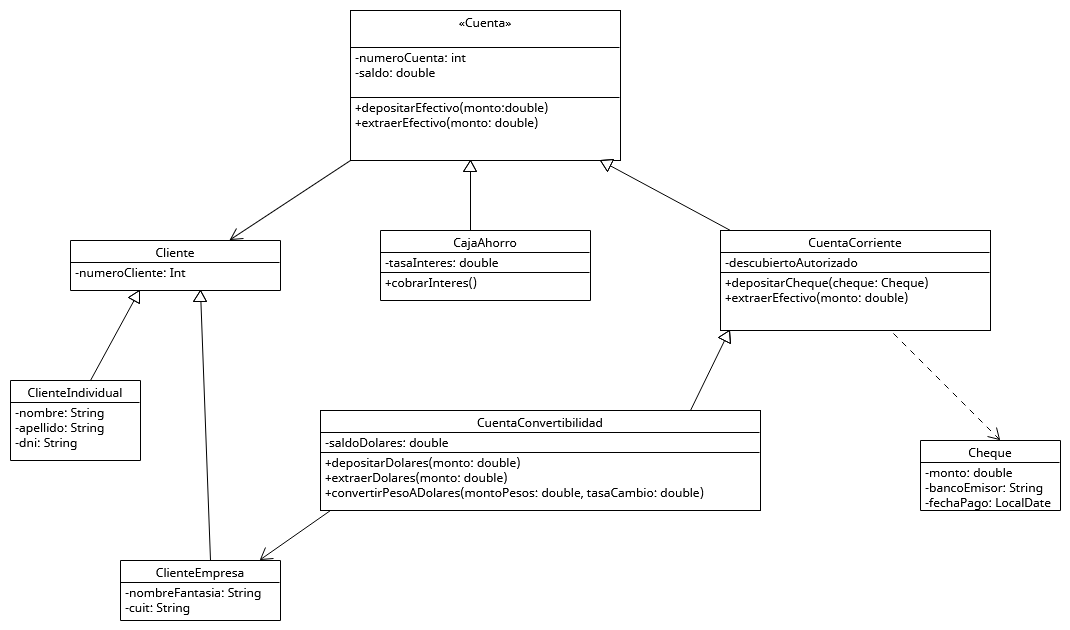
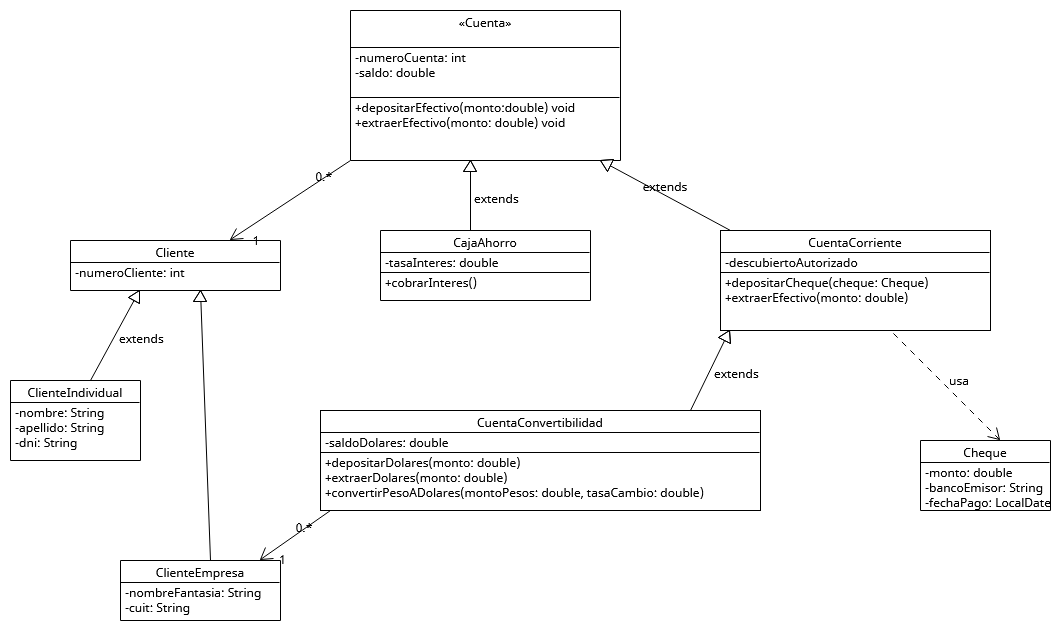
Segundo pusheo de TP

diff --git a/src/main/java/POO/Clases/poo_tn_sistema_bancario/tp_n_1/test/TestCajaAhorro.java b/src/main/java/POO/Clases/poo_tn_sistema_bancario/tp_n_1/test/TestCajaAhorro.java
@@ -1,14 +1,14 @@
 package POO.Clases.poo_tn_sistema_bancario.tp_n_1.test;
 
-import POO.Clases.poo_tn_sistema_bancario.tp_n_1.sistema_bancario.CajaAhorro;
-import POO.Clases.poo_tn_sistema_bancario.tp_n_1.sistema_bancario.ClienteIndividual;
+import POO.Clases.poo_tn_sistema_bancario.tp_n_1.sistema_bancario.clientes.ClienteIndividual;
+import POO.Clases.poo_tn_sistema_bancario.tp_n_1.sistema_bancario.cuentas.CajaAhorro;
 
 public class TestCajaAhorro {
 public static void main(String[] args) {
     ClienteIndividual cliente1 = new ClienteIndividual( 1, "Roberto", "Sanchez", "90345678");
         
           
-        System.out.println("Cliente: " + cliente1.getId() + " - " + cliente1.getNombre() + " " +cliente1.getApellido() + " (DNI: " +cliente1.getDni() + ")");
+        System.out.println("Cliente: " + cliente1.getNumeroCliente() + " - " + cliente1.getNombre() + " " +cliente1.getApellido() + " (DNI: " +cliente1.getDni() + ")");
                                  
                    
         CajaAhorro caja1 = new CajaAhorro(10, 15000.0, 12.0);

diff --git a/src/main/java/POO/Clases/poo_tn_sistema_bancario/tp_n_1/test/TestCheque.java b/src/main/java/POO/Clases/poo_tn_sistema_bancario/tp_n_1/test/TestCheque.java
@@ -1,7 +1,8 @@
 package POO.Clases.poo_tn_sistema_bancario.tp_n_1.test;
 
 import java.time.LocalDate;
-import POO.Clases.poo_tn_sistema_bancario.tp_n_1.sistema_bancario.Cheque;
+
+import POO.Clases.poo_tn_sistema_bancario.tp_n_1.sistema_bancario.cuentas.Cheque;
 
 public class TestCheque {
     public static void main(String[] args) {
@@ -13,12 +14,10 @@ public class TestCheque {
         miCheque.setMonto(152500.75);
         miCheque.setBancoEmisor("Banco Nacion");
         
-        // Asignar fecha usando LocalDate (Año, Mes, Día)
         miCheque.setFechaPago(LocalDate.of(2026, 10, 15));
         
         System.out.println(miCheque);
         
-        // Validar si el cheque ya se puede cobrar 
         if (miCheque.getFechaPago().isBefore(LocalDate.now()) || miCheque.getFechaPago().isEqual(LocalDate.now())) {
             System.out.println("El cheque está listo para el cobro.");
         } else {

diff --git a/src/main/java/POO/Clases/poo_tn_sistema_bancario/tp_n_1/test/TestCuentaConvertibilidad.java b/src/main/java/POO/Clases/poo_tn_sistema_bancario/tp_n_1/test/TestCuentaConvertibilidad.java
@@ -1,8 +1,8 @@
 package POO.Clases.poo_tn_sistema_bancario.tp_n_1.test;
 
-import POO.Clases.poo_tn_sistema_bancario.tp_n_1.sistema_bancario.Cliente;
-import POO.Clases.poo_tn_sistema_bancario.tp_n_1.sistema_bancario.ClienteEmpresa;
-import POO.Clases.poo_tn_sistema_bancario.tp_n_1.sistema_bancario.CuentaConvertibilidad;
+import POO.Clases.poo_tn_sistema_bancario.tp_n_1.sistema_bancario.clientes.Cliente;
+import POO.Clases.poo_tn_sistema_bancario.tp_n_1.sistema_bancario.clientes.ClienteEmpresa;
+import POO.Clases.poo_tn_sistema_bancario.tp_n_1.sistema_bancario.cuentas.CuentaConvertibilidad;
 
 
 public class TestCuentaConvertibilidad {

diff --git a/src/main/java/POO/Clases/poo_tn_sistema_bancario/tp_n_1/sistema_bancario/clientes/ClienteIndividual.java b/src/main/java/POO/Clases/poo_tn_sistema_bancario/tp_n_1/sistema_bancario/clientes/ClienteIndividual.java
@@ -1,4 +1,4 @@
-package POO.Clases.poo_tn_sistema_bancario.tp_n_1.sistema_bancario;
+package POO.Clases.poo_tn_sistema_bancario.tp_n_1.sistema_bancario.clientes;
 
 import lombok.Getter;
 import lombok.Setter;
@@ -13,8 +13,8 @@ public class ClienteIndividual extends Cliente{
     private String apellido;
     private String dni;
 
-    public ClienteIndividual(int id, String nombre, String apellido, String dni) {
-    super(id);
+    public ClienteIndividual(int numeroCliente, String nombre, String apellido, String dni) {
+    super(numeroCliente);
     this.nombre = nombre;
     this.apellido = apellido;
     this.dni = dni;

diff --git a/src/main/java/POO/Clases/poo_tn_sistema_bancario/tp_n_1/sistema_bancario/cuentas/CuentaCorriente.java b/src/main/java/POO/Clases/poo_tn_sistema_bancario/tp_n_1/sistema_bancario/cuentas/CuentaCorriente.java
@@ -1,4 +1,4 @@
-package POO.Clases.poo_tn_sistema_bancario.tp_n_1.sistema_bancario;
+package POO.Clases.poo_tn_sistema_bancario.tp_n_1.sistema_bancario.cuentas;
 
 import lombok.Getter;
 import lombok.Setter;
@@ -17,7 +17,10 @@ public class CuentaCorriente extends Cuenta  {
 
  @Override
  public void depositarEfectivo(double monto) {
-  setSaldo(getSaldo() + monto);
+    if (monto <= 0) {
+        System.out.println("El monto a depositar debe ser mayor a cero.");
+        return;}
+    setSaldo(getSaldo() + monto);
  }
 
  @Override

diff --git a/src/main/java/POO/Clases/poo_tn_sistema_bancario/tp_n_1/test/TestCuentaCorriente.java b/src/main/java/POO/Clases/poo_tn_sistema_bancario/tp_n_1/test/TestCuentaCorriente.java
@@ -1,7 +1,7 @@
 package POO.Clases.poo_tn_sistema_bancario.tp_n_1.test;
 
-import POO.Clases.poo_tn_sistema_bancario.tp_n_1.sistema_bancario.ClienteEmpresa;
-import POO.Clases.poo_tn_sistema_bancario.tp_n_1.sistema_bancario.CuentaCorriente;
+import POO.Clases.poo_tn_sistema_bancario.tp_n_1.sistema_bancario.clientes.ClienteEmpresa;
+import POO.Clases.poo_tn_sistema_bancario.tp_n_1.sistema_bancario.cuentas.CuentaCorriente;
 
 public class TestCuentaCorriente {
     public static void main(String[] args) {

diff --git a/src/main/java/POO/Clases/poo_tn_sistema_bancario/tp_n_1/sistema_bancario/cuentas/CajaAhorro.java b/src/main/java/POO/Clases/poo_tn_sistema_bancario/tp_n_1/sistema_bancario/cuentas/CajaAhorro.java
@@ -1,4 +1,4 @@
-package POO.Clases.poo_tn_sistema_bancario.tp_n_1.sistema_bancario;
+package POO.Clases.poo_tn_sistema_bancario.tp_n_1.sistema_bancario.cuentas;
 
 
 import lombok.Getter;
@@ -19,7 +19,11 @@ public class CajaAhorro extends Cuenta {
 
  @Override
  public void depositarEfectivo(double monto) {
-  setSaldo(getSaldo() + monto);
+    if (monto > 0) {
+    setSaldo(getSaldo() + monto);
+    } else{
+        System.out.println("El monto a depositar de ser mayor a cero. ");
+    }
   
  }
 

diff --git a/src/main/java/POO/Clases/poo_tn_sistema_bancario/tp_n_1/sistema_bancario/clientes/Cliente.java b/src/main/java/POO/Clases/poo_tn_sistema_bancario/tp_n_1/sistema_bancario/clientes/Cliente.java
@@ -1,0 +1,22 @@
+package POO.Clases.poo_tn_sistema_bancario.tp_n_1.sistema_bancario.clientes;
+
+
+import lombok.Getter;
+import lombok.Setter;
+import lombok.ToString;
+
+@Getter 
+@Setter 
+@ToString 
+
+public abstract class Cliente {
+    private int numeroCliente;
+
+    public Cliente(int numeroCliente) {
+        this.numeroCliente = numeroCliente;
+    }
+
+    public int getNumeroCliente() { return numeroCliente; }
+    
+}
+    

diff --git a/src/main/java/POO/Clases/poo_tn_sistema_bancario/tp_n_1/sistema_bancario/cuentas/CuentaConvertibilidad.java b/src/main/java/POO/Clases/poo_tn_sistema_bancario/tp_n_1/sistema_bancario/cuentas/CuentaConvertibilidad.java
@@ -1,5 +1,7 @@
-package POO.Clases.poo_tn_sistema_bancario.tp_n_1.sistema_bancario;
+package POO.Clases.poo_tn_sistema_bancario.tp_n_1.sistema_bancario.cuentas;
 
+import POO.Clases.poo_tn_sistema_bancario.tp_n_1.sistema_bancario.clientes.Cliente;
+import POO.Clases.poo_tn_sistema_bancario.tp_n_1.sistema_bancario.clientes.ClienteEmpresa;
 import lombok.Getter;
 import lombok.Setter;
 import lombok.ToString;

diff --git a/src/main/java/POO/Clases/poo_tn_sistema_bancario/tp_n_1/sistema_bancario/cuentas/Cuenta.java b/src/main/java/POO/Clases/poo_tn_sistema_bancario/tp_n_1/sistema_bancario/cuentas/Cuenta.java
@@ -1,4 +1,4 @@
-package POO.Clases.poo_tn_sistema_bancario.tp_n_1.sistema_bancario;
+package POO.Clases.poo_tn_sistema_bancario.tp_n_1.sistema_bancario.cuentas;
 
 import lombok.AllArgsConstructor;
 import lombok.Getter;

diff --git a/src/main/java/POO/Clases/poo_tn_sistema_bancario/tp_n_1/sistema_bancario/cuentas/Cheque.java b/src/main/java/POO/Clases/poo_tn_sistema_bancario/tp_n_1/sistema_bancario/cuentas/Cheque.java
@@ -1,4 +1,4 @@
-package POO.Clases.poo_tn_sistema_bancario.tp_n_1.sistema_bancario;
+package POO.Clases.poo_tn_sistema_bancario.tp_n_1.sistema_bancario.cuentas;
 
 import java.time.LocalDate;
 import lombok.Getter;

diff --git a/src/main/java/POO/Clases/poo_tn_sistema_bancario/tp_n_1/sistema_bancario/clientes/ClienteEmpresa.java b/src/main/java/POO/Clases/poo_tn_sistema_bancario/tp_n_1/sistema_bancario/clientes/ClienteEmpresa.java
@@ -1,4 +1,4 @@
-package POO.Clases.poo_tn_sistema_bancario.tp_n_1.sistema_bancario;
+package POO.Clases.poo_tn_sistema_bancario.tp_n_1.sistema_bancario.clientes;
 
 import lombok.Getter;
 import lombok.Setter;
